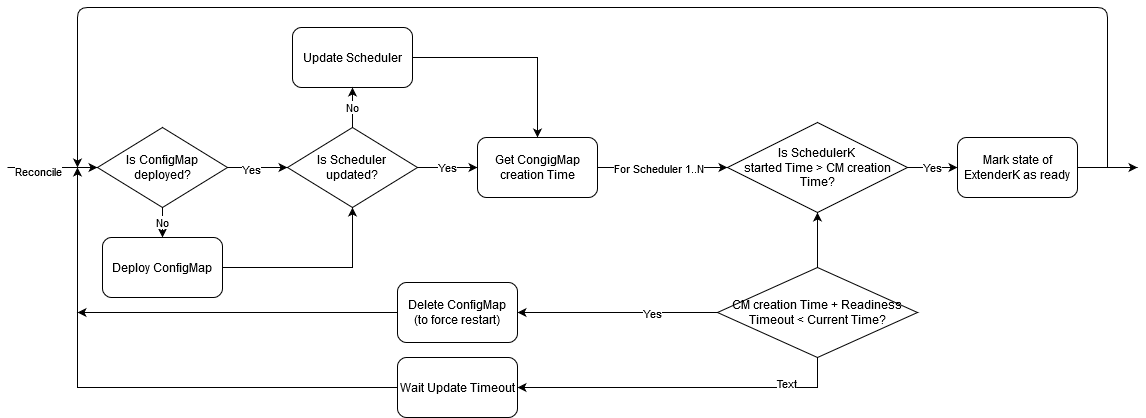
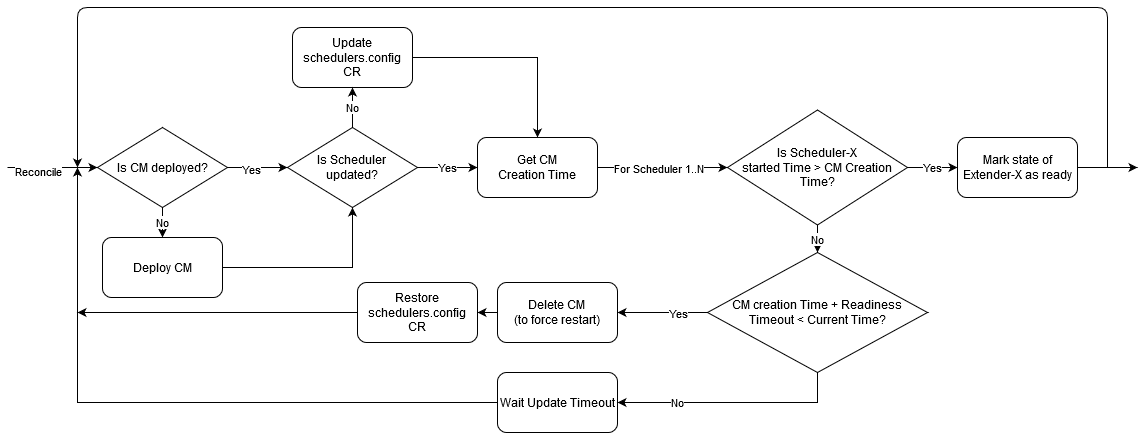
update proposal

diff --git a/docs/proposals/extender-readiness-check.md b/docs/proposals/extender-readiness-check.md
@@ -69,25 +69,39 @@ Readiness flag - kube-scheduler is restarted after CM deployed.
 Readiness check in scheduler-extender
 ![Screenshot](images/extender_flow.png)
 
+Readiness flag - CSI Operator sets `<node_name>=Ready` in sharable `extender-status` ConfigMap, if the related kube-scheduler restarted after CM creation.
+Extender can read this information and compare `<node_name>` with value gotten from Pod parameters.
+
 CSI Operator behavior for Openshift Platform
 ![Screenshot](images/Operator_openshift_flow.png)
+
+kube-scheduler restart time - `pod.Status.ContainerStatuses[0].State.Running.StartedAt`
 
 Update Timeout and Readiness Timeout will be configurable.
 Default values: Update Timeout = 20 sec. Readiness timeout = 20 min.
 
 Corner cases:
+- Extenders don't become ready after Readiness Timeout - Operator will recreate CM 
+- The ConfigMap was deployed before - Kube-Scheduler pod must restart anyway after updating CM.
+If it is not detected, Operator will recreate CM
+- A new master node in cluster - a new Kube-Scheduler will use updated configuration from CM and its started time will be after CM creation.
 
-- The ConfigMap was deployed before - Kube-Scheduler pod must restart anyway after updating ConfigMap.
-If it is not detected, Operator will recreate ConfigMap
-- A new master node in cluster - a new Kube-Scheduler will use updated configuration from ConfigMap and its started time will be after ConfigMap creation.
+CSI Operator deletion handler for Openshift Platform
+![Screenshot](images/Operator_Openshift_deletion-handle.png)
 
 CSI Operator behavior for RKE/Vanilla Platform
 ![Screenshot](images/Operator_vanilla_flow.png)
 
-Also, Patcher mast have the following functionality
+CSI Operator deletion handler for RKE/Vanilla Platform
+![Screenshot](images/Operator_vanilla_deletion-handle.png)
+
+Also, Patcher must have the following functionality
 ![Screenshot](images/Patcher_flow.png)
 
-Readiness check behavior is the same for 2 platforms - after ConfigMap creation Kube-Scheduler must restart.
+Patcher SIGTERM handler
+![Screenshot](images/Patcher_SIGTERM_flow.png)
+
+Readiness check behavior is the same for 2 platforms - after CM creation kube-scheduler must restart.
 
 Different places:
 1. Deploy ConfigMap
@@ -99,14 +113,22 @@ Different places:
 
 Problems:
 - a way to force Kube-Scheduler restart in Patcher is not clear
-- need to create separate API for each extender pod (a lot of additional Kubernetes API calls)
+
+### Manual patching
+
+**For discussion**
+
+Possible solutions:
+1. Create clear guidelines for users, how they can add CSI extender without patching.
+    - move CM stetting to yaml or other config-file
+    - fix Openshift patching disabling 
+2. Implement "smart" way for Operator to patch kube-scheduler
+    - update configs if it exists already (CM for Openshift, policy file for RKE/vanilla)
+    - clear only patched fields on shutdown
 
 ## Rationale
 ### Alternative approach
-First step - implement CSI CR status field (ready/unready), which is updated in Operator.
-Readiness check - kube-scheduler restarted after patching process.
-
-Kube-scheduler restart time - `pod.Status.ContainerStatuses[0].State.Running.StartedAt`
+Implement CSI CR status field (ready/unready), which is updated in Operator.
 
 Patching time:
 - For Openshift - Operator checks ConfigMap creation timestamp.
@@ -114,16 +136,16 @@ Patching time:
   (Patcher gets info about the manifest file from os.Stat and annotates the appropriate master node)
 
 Other options to make stable kube-scheduler restart check:
-#### Option 1
-1. Add check in Operator after both patching methods to wait kube-scheduler restart before move to ready state.
 
-To trigger restart if config stacked:
+#### Option 1
+Trigger restart if config stacked:
 
 2. For Openshift - recreate scheduling configmap after CSI installation
 3. For Patcher - add kube-scheduler pod deletion step on first try (maybe only if not changed?)
 
 Disadvantages:
 - kube-scheduler deletion action may lead to negative consequences
+
 #### Option 2
 For Openshift - same as in the approach 1
 
@@ -136,11 +158,10 @@ Disadvantages:
 - Patcher uses Python language, it's technically complicated to rewrite code for it
 - We need to have code for checking restart in 2 places
 #### Option 3
-1. Add check based only on patching state and not try to watch on kube-scheduler
+Add check based only on patching state and not try to watch on kube-scheduler
 
-For Openshift - become ready if configmap is actual and Scheduler is updated
-
-For Patcher - become ready if all patcher-daemonset pods are running and their count equals to kube-schedulers count (control-plane nodes may not provide master labels and pods won't be created at all)
+- For Openshift - become ready if configmap is actual and Scheduler is updated
+- For Patcher - become ready if all patcher-daemonset pods are running and their count equals to kube-schedulers count (control-plane nodes may not provide master labels and pods won't be created at all)
 
 ## Open issues (if applicable)
 ID | Name | Descriptions | Status | Comments
